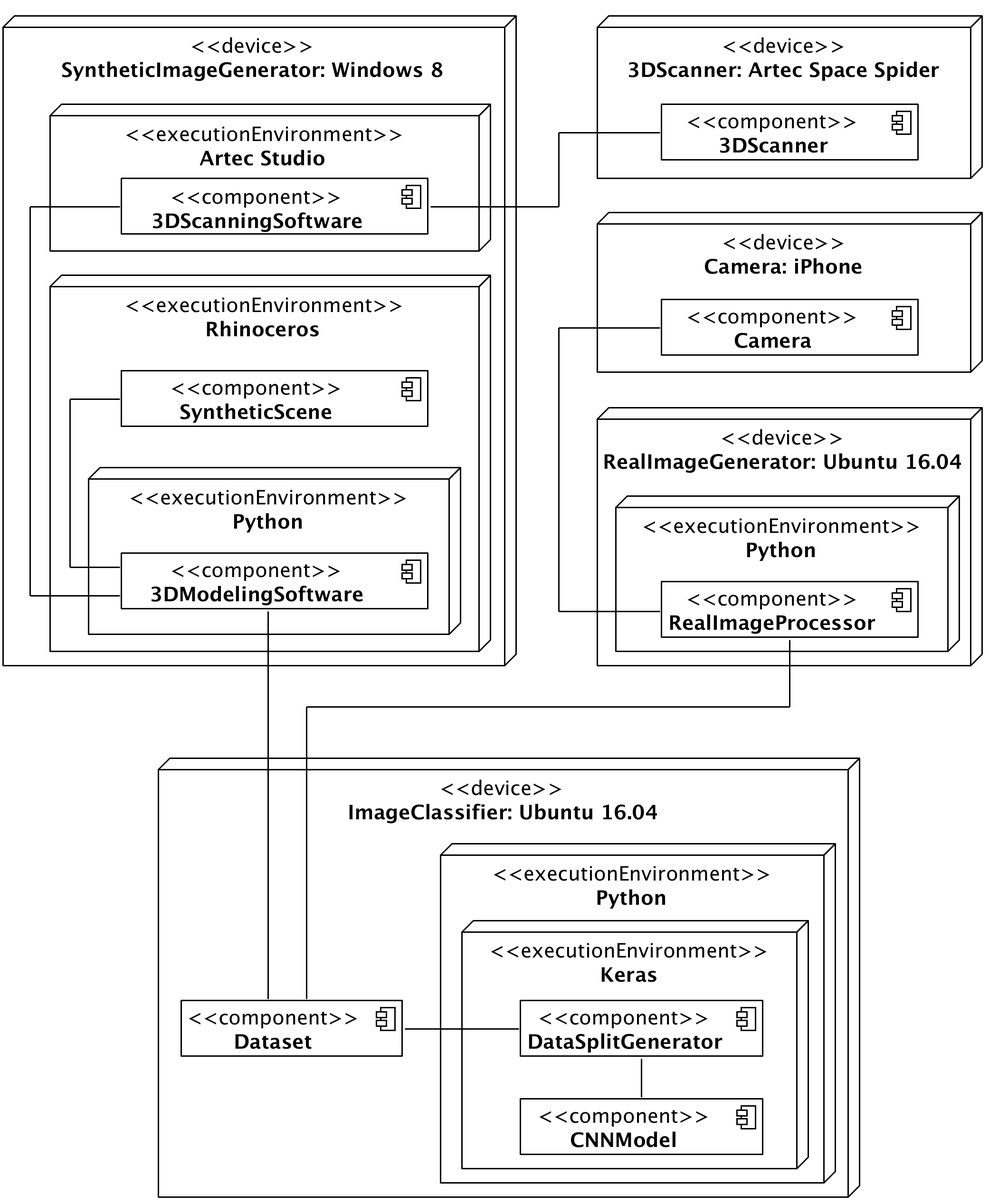
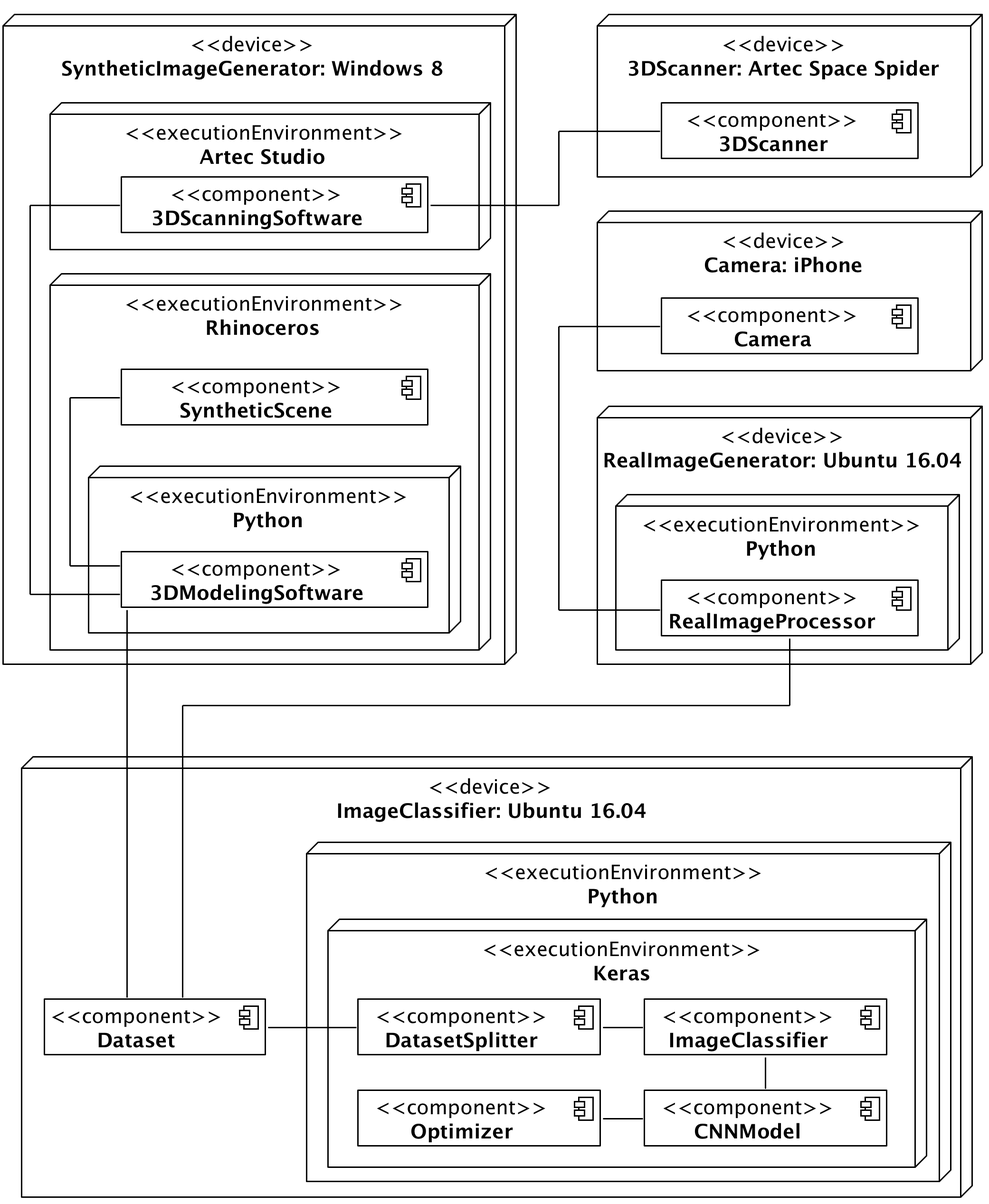
adds feedback

diff --git a/chapters/6-ObjectDesign.tex b/chapters/6-ObjectDesign.tex
@@ -3,7 +3,8 @@ In chapter \ref{ch:analysis}, we identified the objects in our system by creatin
 
 During hardware/software mapping, we have identified off-the-shelf components that we used throughout our system. Namely Keras, Rhinoceros Artec Studio and Artec Space Spider. In this chapter, we close the gap between the application objects and the off-the-shelf components by identifying additional solution objects and refining existing objects \cite{bruegge2004object}.
 
-Section \ref{sec:artec} presents the Artec Space Spider 3D scanner and the Artec Studio 3D scanning software. It also describes how they are used to create 3D models. In section \ref{sec:rhino} we present the 3D modeling software Rhinoceros and how it is used to create synthetic images. Finally, in section \ref{sec:keras}, we introduce Keras and Tensorflow, and we describe how they are used to create an image classifier.
+Section \ref{sec:artec} presents the Artec Space Spider 3D scanner and the Artec Studio 3D scanning software. It also describes how they are used to create 3D models. In section \ref{sec:rhino} we present the 3D modeling software Rhinoceros and how it is used to create synthetic images. Section \ref{sec:pillow} describes Pillow the python imaging library, and how it is used to process real images. In section \ref{sec:keras}, we introduce Keras and Tensorflow, and we describe how they are used to create an image classifier. Section \ref{sec:vgg_algorithm} describes the VGG convolutional neural network algorithms used to implement the CNNModel. Finally, Section \ref{sec:adam_algorithm} presents the Adam optimization algorithm.
+
 
 \section{Artec Space Spider and Artec Studio}\label{sec:artec}
 Artec Space Spider\footnote{https://www.artec3d.com/portable-3d-scanners/artec-spider} is a high-resolution 3D scanner based on blue light technology. It is built for capturing small objects or intricate details of large industrial objects in high resolution, with steadfast accuracy and precise color.
@@ -12,6 +13,7 @@ Artec Studio\footnote{https://www.artec3d.com/3d-software/artec-studio} is a 3D 
 
 \subsection{Usage}
 We use the Artec Space Spider 3D scanner to scan our small part from multiple angles. The different scans are then sent to Artec Studio for processing. Artec Studio provides a functionality that detects features in multiple scans and automatically combines the scans to form a 3D model. Moreover, Artec Studio automatically removes outlier points in the scans and. We also used Artec Studio to identify the horizontal plane where the small part was lying during the scan. The plane is then removed from the output 3D model. After the scans have been combined to construct a 3D model, Artec Studio automatically fills the holes in the object where there are missing scans.
+
 
 \section{Rhinoceros}\label{sec:rhino}
 Rhinoceros\footnote{https://www.rhino3d.com} (Rhino for short) is a 3D modeling software. Rhino can create, edit, analyze, document, render, animate, and translate curves, surfaces, solids, point clouds, and polygon meshes.
@@ -23,6 +25,11 @@ We use Rhino to create our synthetic scene. We set the background and the lighti
 
 Furthermore, we use RhinoSyntaxScript over python to create our synthetic images. After setting up the synthetic scene in Rhino, we write a python script that executes random transformations over our 3D model. Next, we use a RhinoSyntaxScript function that renders and saves a 2D image of the scene. In the python script, we specify the desired number of output images. Rhino repeats the transformation and rendering process accordingly.
 
+
+\section{Pillow}\label{sec:pillow}
+Pillow is a python imaging library built on top of PIL (Python Imaging Library). Pillow is used for image manipulation in python. The \textit{Image} module provided by Pillow has a function to open an existing image, resize it and save the new resized image. We use the Image module to implement our RealImageProcessor.
+
+
 \section{Keras and Tensorflow}\label{sec:keras}
 Keras is a high-level neural networks API, written in Python and capable of running on top different backends such as Tensorflow, CNTK or Theano \cite{chollet2015keras}. Keras focuses on being a user friendly API. It minimizes the number of actions required to develop common neural networks. Furthermore, Keras is designed modularly. Neural layers, optimizers, cost functions and regularization schemes are shipped as standalone components that can be easily used to create new models.
 
@@ -32,3 +39,32 @@ Our system runs Keras over Tensorflow. Tensorflow is an open source software lib
 Keras provides an out-of-the-box implementation of different CNN models, optimizers and cost functions. We took advantage of Keras's modular components to build and fine tune our CNN models and their respective optimizers with ease.
 
 Furthermore, Keras provides an image loader, called \textit{ImageDataGenerator}. ImageDataGenerator feeds the training, validation and testing data to the CNN models from a folder directory. Consequently, we built our DatasetSplitter using Keras's image loader.
+
+
+\section{VGG CNN Algorithm}\label{sec:vgg_algorithm}
+VGG is a convolutional neural network model created in 2014 by Karen Simonyan and Andrew Zisserman of the University of Oxford \cite{simonyan2014very}. VGG was introduced in the ILSVRC 2014 competition, where the team came second on the image classification benchmark with a 7.3\% error rate.
+
+As shown in figure \ref{fig:VGG_architectures}, the VGG CNN algorithm has different configurations. For example configuration D has 16 layers while E has 19 layers. The convolution layers used in the VGG network use a 3x3 filter with a stride and a pad of 1, while the maxpooling layers use a 2x2 filter with a stride of 2.
+
+Figure \ref{fig:VGG_architectures} shows the different VGG architecture configurations presented by Simonyan and Zisserman \cite{simonyan2014very}. We use configurations D and E to implement our CNNModel. We refer to them as \textbf{VGG16} and \textbf{VGG19} respectively.
+
+\begin{figure}[H]
+\centering
+  \includegraphics[width=\textwidth]{VGG_architectures}
+\caption{Different VGG architectures. We use configurations D and E.}
+\label{fig:VGG_architectures}
+\end{figure}
+
+
+\section{Adam Optimization Algorithm}\label{sec:adam_algorithm}
+Adam \cite{kingma2014adam} is a gradient descent optimization algorithm. It is used during the training phase of a network to update the model weights. Adam differs than the classical stochastic gradient descent (SGD) optimizer. While SGD maintains a constant learning rate for all weight updates, Adam calculates the exponential moving average of the gradient and the squared gradient. The adam optimizer updates the weight of a network that uses the loss function $L$ as follows:
+\[g_{t}=\dfrac{\partial L}{\partial w_{t-1}}\]
+\[m_{t}=\beta_{1}\cdot m_{t-1}+(1-\beta_{1}\cdot g_{t})\]
+\[s_{t}=\beta_{2}\cdot s_{t-1}+(1-\beta_{2}\cdot g_{t}^2)\]
+\[\hat{m_{t}}=\dfrac{m_{t}}{1 - \beta_{1}^t}\]
+\[\hat{s_{t}}=\dfrac{s_{t}}{1 - \beta_{2}^t}\]
+\[w_{t}=w_{t-1}-\alpha\dfrac{\hat{m_{t}}}{\sqrt{\hat{s_{t}}}+\epsilon}\]
+
+where $\alpha$ is the learning rate, $\beta_1$ and $\beta_2$ are decay rates for the moving average of the gradient and the square gradient respectively, $t$ is the timestep and $\epsilon$ is a small constant (usually $10^{-8}$) used to avoid division by zero.
+
+The Adam optimization algorithm is more sophisticated than the classical stochastic gradient descent. However, we use both algorithms to implement the Optimizer class, which is in turn used to update the weights of the CNNModel during the training phase.

diff --git a/chapters/5-SystemDesign.tex b/chapters/5-SystemDesign.tex
@@ -24,16 +24,16 @@ In the previous chapter we have defined our non-functional requirements. In this
 
 \section{Subsystem Decomposition}\label{sec:subsystem_decomposition}
 
-Figure \ref{fig:SSD} depicts our system's subsystem decomposition. Our system is divided into 3 subsytems. \textbf{SyntheticImageSubsystem} is responsible for providing our system with synthetic images. It consists of 4 main components: \textbf{3DScanner}, \textbf{3DScanningSoftware}, \textbf{3DScanningSoftware}, \textbf{SyntheticScene} and \textbf{3DModelingSoftware}. The 3DScanner scans small parts and ouputs raw 3D model, which are processes by the 3DModelingSoftware to produce a 3D model. The SyntheticScene generates an artificial environment. The 3DModelingSoftware places the 3D models in the environment created by SyntheticScene, and renders synthetic images of the 3D models.
+Figure \ref{fig:SSD} depicts our system's subsystem decomposition. Our system is divided into 3 subsytems. \textbf{SyntheticImageSubsystem} is responsible for providing our system with synthetic images. It consists of 4 main components: \textbf{3DScanner}, \textbf{3DScanningSoftware}, \textbf{3DScanningSoftware}, \textbf{SyntheticScene} and \textbf{3DModelingSoftware}. The 3DScanner scans \textbf{SmallParts} and ouputs raw 3D model, which are processes by the 3DModelingSoftware to create a \textbf{3DModel}. The SyntheticScene generates an artificial environment. The 3DModelingSoftware places the 3D models in the environment created by SyntheticScene, and renders \textbf{SyntheticImages} of the 3D models.
 
-On the other hand, \textbf{RealImageSubsystem} is responsible for providing our system with real images. The \textbf{Camera} is used to take real images of the small parts. Next, the \textbf{RealImageProcessor} resizes the raw images to provide our system with real images that can be used out of the box.
+On the other hand, \textbf{RealImageSubsystem} is responsible for providing our system with real images. The \textbf{Camera} is used to take real images of the SmallParts. Next, the \textbf{RealImageProcessor} resizes the raw images to provide our system with \textbf{RealImages} that can be used out of the box.
 
-The synthetic images created by the SyntheticImageSubsystem and the real images created by the RealImageSubsystem are both sent to the \textbf{ImageClassifierSubsystem}. The ImageClassifierSubsystem in turn combines both image sets to create a \textbf{Dataset}. The images are then fed to the \textbf{DatasetSplitter}, which is in turn responsible for splitting the data into a training set, a validation set and a testing set. The \textbf{CNNModel} utilizes the training and validation sets during the training phase. The testing set is then used to determine the accuracy of the trained CNNModel.
+The synthetic images created by the SyntheticImageSubsystem and the real images created by the RealImageSubsystem are both sent to the \textbf{ImageClassifierSubsystem}. The ImageClassifierSubsystem in turn combines both image sets to create a \textbf{Dataset}. The images are then fed to the \textbf{DatasetSplitter}, which is in turn responsible for splitting the data into a training set, a validation set and a testing set. The \textbf{ImageClassiefier} uses the training and validation sets to train a \textbf{CNNModel}. The CNNModel uses an \textbf{Optimizer} to adjust the model weights during the training phase. The testing set is then used to evaluate the accuracy of the trained CNNModel.
 
 \begin{figure}[H]
 \centering
   \includegraphics[width=\textwidth]{SSD}
-\caption{Subsystem decomposition showing the SyntheticImageSubsystem, the RealImageSubsystem, the ImageClassifierSubsystem and the relationships between them.}
+\caption{Subsystem decomposition showing the SyntheticImageSubsystem, the RealImageSubsystem, the ImageClassifierSubsystem and the services that they provide and consume.}
 \label{fig:SSD}
 \end{figure}
 
@@ -44,7 +44,7 @@ This section describes how the subsystems are mapped onto existing hardware and 
 
 The \textbf{Camera} is used to capture raw images of the small parts. We use the Camera application on an iPhone 6. The \textbf{RealImageGenerator} runs a Python environment. We use the Python commands to resize the the raw images of the small parts captured by the camera. The resized real images are then ready to be fed to the image classifier.
 
-The Dataset is stored in the file system of the \textbf{ImageClassifier} device. We use the device's Python environment to run the Datasplitter and the CNNModel. Furthermore, we use \textbf{Keras} \cite{chollet2015keras}, a neural networks API that provides out-of-the-box CNN implementations. The ImageClassifier deviceis equipped with a graphics processing unit (GPU). The GPU is used for parallel processing of the Convolutional Neural Network training algorithm. This enhancement significantly slashes down the time needed to train a CNN.
+The Dataset is stored in the file system of the \textbf{ImageClassifier} device. We use the device's Python environment to run the Datasplitter, the ImageClassifier, the CNNModel and the Optimizer. Furthermore, we use \textbf{Keras} \cite{chollet2015keras}, a neural networks API that provides out-of-the-box CNN implementations. The ImageClassifier deviceis equipped with a graphics processing unit (GPU). The GPU is used for parallel processing of the Convolutional Neural Network training algorithm. This enhancement significantly slashes down the time needed to train a CNN.
 
 \begin{figure}[h]
 \centering
@@ -55,11 +55,11 @@ The Dataset is stored in the file system of the \textbf{ImageClassifier} device.
 
 \section{Persistent Data Management}\label{sec:persistent_data_management}
 
-The implementation of the ImageClassifier requires the split dataset to be organized in a certain way. The file structure of the dataset is shown in figure \ref{fig:FS}. The root folder contains one folder per small part. Each folder is named after its respective small part's label. This folder, in turn, contains 3 folders: one for training images, one for validation and one for testing. Lastly, each training, validation and testing folder contains a set of images that belong to a specific small part.
+The implementation of the ImageClassifier requires the split dataset to be organized in a certain way. The file structure of the dataset is shown in figure \ref{fig:FS}. The root folder contains 3 folders: one for training images, one for validation and one for testing. Each folder, in turn, contains one folder per class, and each of these folders are named after their respective class's label. Lastly, each class folder contains a set its own images.
 
 \begin{figure}[h]
 \centering
   \includegraphics[width=0.8\textwidth]{FS}
-\caption{Dataset file structure model displaying how the split dataset is organized before being fed as input to the image classifier. Each subfolder in the Dataset root directory is named after a small part label.}
+\caption{Dataset file structure model displaying how the split dataset is organized before being fed as input to the image classifier. Each subfolder in the training/validation/testing directory is named after a small part label.}
 \label{fig:FS}
 \end{figure}

diff --git a/chapters/7-Evaluation.tex b/chapters/7-Evaluation.tex
@@ -86,7 +86,7 @@ $\boldsymbol{R_{0}S_{100}}$ & 600 & 0 & 600 & 100 & 150 \\ \hline
 $\boldsymbol{R_{2.5}S_{97.5}}$ & 585 & 15 & 600 & 100 & 135 \\ \hline
 $\boldsymbol{R_{5}S_{95}}$ & 570 & 30 & 600 & 100 & 120 \\ \hline
 $\boldsymbol{R_{10}S_{90}}$ & 540 & 60 & 600 & 100 & 90 \\ \hline
-$\boldsymbol{R_{100}S_{0}}$ & 0 & 150 & 150 & 50 & 50 \\ \hline
+$\boldsymbol{R_{100}S_{0}}$ & 0 & 600 & 600 & 100 & 100 \\ \hline
 \end{tabular}
 \caption{Different dataset splits that we use in our experiment. Each column details the number of images per class for the specified data split.}
 \label{tab:DS}
@@ -114,7 +114,7 @@ Tables \ref{tab:vgg16-results} and \ref{tab:vgg19-results} provide the resulting
 
 \section{Findings}\label{sec:findings}
 
-In our experiments, synthetic data has been found to enhance the classification accuracy of both the VGG16 and the VGG19 models. We note that using the dataset containing a 100\% real images in the training set, $\boldsymbol{R_{100}S_{0}}$, the VGG16 network reached a classification accuracy of 94.333\%, while using the $\boldsymbol{R_{10}S_{90}}$ dataset resulted in an accuracy of 97.037\%. Moreover, the VGG19 network achieved an accuracy of 92.333\% using the $\boldsymbol{R_{100}S_{0}}$ dataset, compared to an accuracy of 97.222\% as a result of using the $\boldsymbol{R_{5}S_{95}}$ dataset.
+In our experiments, we find that purely synthetic training sets generate inferior results compared to purely real training sets. A VGG16 model trained on the $\boldsymbol{R_{0}S_{100}}$ dataset has a classification accuracy of 83.556\%, a whole 16.444\% less that a VGG16 model trained on the $\boldsymbol{R_{100}S_{0}}$ dataset. However, A VGG16 trained on a training set with 10\% real data produces comparable results to a training set with purely real data. We note that while using $\boldsymbol{R_{100}S_{0}}$ dataset, the VGG16 network reached an accuracy of 100\%, while using the $\boldsymbol{R_{10}S_{90}}$ dataset resulted in an accuracy of 97.037\%. Moreover, the VGG19 network achieved an accuracy of 99.333\% using the $\boldsymbol{R_{100}S_{0}}$ dataset, compared to an accuracy of 97.222\% as a result of using the $\boldsymbol{R_{5}S_{95}}$ dataset.
 
 Furthermore, we notice that the small parts with the highest class-wise accuracy are \textit{Flat Head} and \textit{Longhex Large}. Compared to their counterparts, those two small parts have a unique aesthetic. Hex Large and Hex small look similar, and the same goes for Mushroom Large and Mushroom Small.
 
@@ -127,7 +127,7 @@ $\boldsymbol{R_{0}S_{100}}$ & 99.333 & 48.000 & 98.667 & 96.667 & 80.667 & 78.00
 $\boldsymbol{R_{2.5}S_{97.5}}$ & 100.00 & 79.259 & 99.259 & 99.259 & 83.704 & 80.741 & \textbf{90.370} \\ \hline
 $\boldsymbol{R_{5}S_{95}}$ & 100.00 & 95.833 & 100.00 & 97.500 & 90.833 & 75.833 & \textbf{93.333} \\ \hline
 $\boldsymbol{R_{10}S_{90}}$ & 100.00 & 94.444 & 98.889 & 100.00 & 98.889 & 90.000 & \textbf{97.037} \\ \hline
-$\boldsymbol{R_{100}S_{0}}$ & 100.00 & 98.000 & 100.00 & 98.000 & 78.000 & 92.000 & \textbf{94.333} \\ \hline
+$\boldsymbol{R_{100}S_{0}}$ & 100.00 & 100.000 & 100.00 & 100.000 & 100.000 & 100.000 & \textbf{100.000} \\ \hline
 \end{tabular}
 \caption{Class-wise classification accuracy of a VGG16 network trained on different ratios of synthetic data to real data.}
 \label{tab:vgg16-results}
@@ -142,7 +142,7 @@ $\boldsymbol{R_{0}S_{100}}$ & 100.00 & 81.333 & 88.667 & 92.000 & 98.667 & 52.66
 $\boldsymbol{R_{2.5}S_{97.5}}$ & 100.00 & 100.00 & 86.667 & 99.259 & 99.259 & 90.370 & \textbf{95.926} \\ \hline
 $\boldsymbol{R_{5}S_{95}}$ & 100.00 & 100.00 & 96.667 & 98.333 & 100.00 & 88.333 & \textbf{97.222} \\ \hline
 $\boldsymbol{R_{10}S_{90}}$ & 100.00 & 90.000 & 96.667 & 98.889 & 98.889 & 96.667 & \textbf{96.852} \\ \hline
-$\boldsymbol{R_{100}S_{0}}$ & 100.00 & 92.000 & 98.000 & 96.000 & 78.000 & 90.000 & \textbf{92.333} \\ \hline
+$\boldsymbol{R_{100}S_{0}}$ & 100.00 & 100.000 & 100.000 & 100.000 & 99.000 & 97.000 & \textbf{99.333} \\ \hline
 \end{tabular}
 \caption{Class-wise classification accuracy of a VGG19 network trained on different ratios of synthetic data to real data.}
 \label{tab:vgg19-results}

diff --git a/chapters/8-Summary.tex b/chapters/8-Summary.tex
@@ -5,24 +5,7 @@ In this chapter we recap the work that we have done. We summarize the status of 
 
 \section{Status}\label{sec:status}
 
-Table \ref{tab:FRS} displays the functional requirements that we have identified earlier in chapter \ref{ch:analysis}. Furthermore, A description of how these requirements were implemented in the solution domain is provided. If applicable, we analyse why a requirement has not been realized.
-
-\begin{table}[h]
-\centering
-\begin{tabular}{|l|l|}
-\hline
-\textbf{Functional Requirement} & \textbf{Implementation} \\ \hline
-Create 3D Model & \begin{tabular}[c]{@{}l@{}}We are able to create 3D models of\\ our small parts using the 3DScanner\\ device. However the output 3D\\ models were imprecise and could not\\ capture the details of the small parts.\\ We instead downloaded readily\\ available 3D models.\end{tabular} \\ \hline
-\begin{tabular}[c]{@{}l@{}}Generate Synthetic\\ Image Set\end{tabular} & \begin{tabular}[c]{@{}l@{}}Generating the synthetic image set\\ is implemented using ready made\\ 3D models,  the creation of\\ synthetic scenes and rendering 2D\\ synthetic images in Rhinoceros.\end{tabular} \\ \hline
-\begin{tabular}[c]{@{}l@{}}Set 3D Model\\ Transformation Range\end{tabular} & \begin{tabular}[c]{@{}l@{}}The transformation ranges for each\\ 3D model are set in the python script\\ that Rhino executes to generate the\\ synthetic images.\end{tabular} \\ \hline
-\begin{tabular}[c]{@{}l@{}}Generate Real\\ Image Set\end{tabular} & \begin{tabular}[c]{@{}l@{}}A camera is used to take real images\\ of the small parts which are then\\ resized by the RealImageProcessor\\ component in the RealImageGenerator\\ device.\end{tabular} \\ \hline
-Split Input Dataset & \begin{tabular}[c]{@{}l@{}}In the ImageClassifier device, the\\ DataSplitter divides the images in\\ the Dataset component into a training\\ set, a validation set and a testing set.\end{tabular} \\ \hline
-\begin{tabular}[c]{@{}l@{}}Train Classification\\ Model\end{tabular} & \begin{tabular}[c]{@{}l@{}}The CNNModel  is trained and fine\\ tuned using the training and\\ validation sets\end{tabular} \\ \hline
-\begin{tabular}[c]{@{}l@{}}Evaluate\\ Classification Model\end{tabular} & \begin{tabular}[c]{@{}l@{}}We evaluate the classification\\ accuracy of the CNNModel by\\ predicting the labels of the testing set.\end{tabular} \\ \hline
-\end{tabular}
-\caption{The functional requirements that we have defined in the Analysis chapter and how those requirements were implemented in the solution domain.}
-\label{tab:FRS}
-\end{table}
+We look back at the functional requirements that we have defined in chapter \ref{ch:analysis}. We are able to create 3D models of our small parts using the 3DScanner device. However the output 3D models were imprecise and could not capture the details of the small parts. We instead downloaded readily available 3D models. Generating the synthetic image set is implemented using ready made 3D models, the creation of synthetic scenes and rendering 2D synthetic images in Rhinoceros. The transformation ranges for each 3D model are set in the python script that Rhino executes to generate the synthetic images. A camera is used to take real images of the small parts which are then resized by the RealImageProcessor component in the RealImageGenerator device. In the ImageClassifier device, the DatasetSplitter divides the images in the Dataset component into a training set, a validation set and a testing set. The ImageClassifier trains a CNNMosel using the training and validation sets, and evaluates its classification accuracy using the testing set.
 
 
 \section{Conclusion}\label{sec:conclusion}

diff --git a/chapters/4-Analysis.tex b/chapters/4-Analysis.tex
@@ -91,10 +91,10 @@ In order to create synthetic images, we need to create 3D models of our small pa
 
 \newpage
 \subsubsection{Generating Synthetic Images}
-The created 3D models are used to generate a synthetic image set. To increase the understandability of our model, we separate the use case that concerns modeling the 3D model as \textit{Specify3DTransformationRange}, and the use case that deals with the synthetic scene environment as \textit{SetUpSyntheticScene}. Both are included in the use case \textit{GenerateSyntheticImageSet}.
+The created 3D models are used to generate a synthetic image set. To increase the understandability of our model, we separate the use case that concerns modeling the 3D model as \textit{SetTransformationRange}, and the use case that deals with the synthetic scene environment as \textit{SetUpSyntheticScene}. Both are included in the use case \textit{GenerateSyntheticImageSet}.
 
 \begin{usecase}
-  \addtitle{Use Case}{Specify3DTransformationRange}
+  \addtitle{Use Case}{SetTransformationRange}
 
   \addfield{Participating Actors}{DataGenerator}
 
@@ -284,7 +284,7 @@ RealImage and SyntheticImage are both specializations of the \textbf{Image} clas
 \end{figure}
 
 \subsubsection{Image Classification}
-After the dataset has been generated, it is split into a training set, a validation set and a testing set by the \textbf{DatasetSplitter}. The DatasetSplitter sets the size of each set as well as the ratio of synthetic to real images in the training set. The \textbf{ImageClassifier} uses the split dataset to train and evaluate a \textbf{CNNModel}. The CNNModel defines the model weights as well as the hyperparameters: batch size, number of epochs, and, number of frozen layers. CNNModel is an abstraction of 4 different convolutional neural networks: \textbf{InceptionV3} \cite{szegedy2016rethinking}, \textbf{Resnet50} \cite{he2016deep}, \textbf{VGG16} \cite{simonyan2014very} and \textbf{VGG19} \cite{simonyan2014very}. CNNModel uses the \textbf{Optimizer} to adjust the model weights in the training phase. Optimizer is a generalization of 2 concrete optimizers: Stochastic Gradient Descent \textbf{(SGD)} and \textbf{Adam} \cite{kingma2014adam}.
+After the dataset has been generated, it is split into a training set, a validation set and a testing set by the \textbf{DatasetSplitter}. The DatasetSplitter sets the size of each set as well as the ratio of synthetic to real images in the training set. The \textbf{ImageClassifier} uses the split dataset to train and evaluate a \textbf{CNNModel}. The CNNModel defines the model weights as well as the hyperparameters: batch size, number of epochs, and, number of frozen layers. CNNModel uses the \textbf{Optimizer} to adjust the model weights in the training phase.
 
 \begin{figure}[H]
 \centering

diff --git a/chapters/3-RelatedWork.tex b/chapters/3-RelatedWork.tex
@@ -37,4 +37,4 @@ Gerogakis et al. \cite{georgakis2017synthesizing} use a mixture of synthetic ima
 
 Rajpura et al. \cite{rajpura2017object} used 3D models of refrigerators and and products that are placed in refrigerators from Archive3D\footnote{http://archive3d.net/} and ShapeNet \cite{chang2015shapenet} to perform object detection in refrigerator scenes. Synthetic images were generated by rendering 2D images of a 3D synthetic scene were the products are placed inside the refrigerators. Rajpura et al. trains a CNN using a fully real training set, a fully synthetic training set, and a synthetic training set containing 10\% real data. The CNN fully trained with only synthetic images  underperforms against one with real images but the mixed training set boosts the detection performance by 12\% which signifies the importance of transferable cues from synthetic to real.
 
-Sarkar et al. \cite{sarkar2017trained} train a CNN image classifier on synthetic images rendered from 3D models of 5 different objects. The 3D models are created by scanning the real target objects using a 3D scanner. Synthetic images are created by rendering the 3D models on 3 different types of backgrounds: a plain white background, a random indoor background taken from indoor categories of PASCAL dataset \cite{everingham2010pascal}, and a chosen background similar to that of test images. Aditionally, images are rendered with two object texture settings: full texture and no texture. Sarkar et al. find that synthetic images of fully textured objects overlayed on a mixture of white and chosen backgrounds produce the best results.
+Sarkar et al. \cite{sarkar2017trained} train a CNN image classifier on synthetic images rendered from 3D models of 5 different objects. The 3D models are created by scanning the real target objects using a 3D scanner. Synthetic images are created by rendering the 3D models on 3 different types of backgrounds: a plain white background, a random indoor background taken from indoor categories of PASCAL dataset \cite{everingham2010pascal}, and a chosen background similar to that of test images. Aditionally, images are rendered with two object texture settings: full texture and no texture. Sarkar et al. find that synthetic images of fully textured objects overlayed on a mixture of white and chosen backgrounds produce the best results compared to other texture and background settings.

diff --git a/tex/abstract.tex b/tex/abstract.tex
@@ -1,9 +1,11 @@
 \begin{abstract}
 
-Aircraft engines periodically undergo an overhaul process where the engine parts are dismantled and then later reassembled. When the engine components are taken apart, thousends of small parts (screws, nuts, bolts, etc..) are unfastened. To facilitate the step of engine reassembly, the small parts have to be sorted and classified.
+Aircraft engines periodically undergo an overhaul process during which the engine parts are dismantled and then later reassembled. When the engine components are taken apart, thousends of small parts (screws, nuts, bolts, etc..) are unfastened. To facilitate the step of engine reassembly, the small parts have to be sorted and classified.
 
 In this thesis we present a system to automatically classify small parts using convolutional neural networks. To train the neural networks, we use 3D models of the small parts to render synthetic images. The network is trained using a mixture of images of the small parts and synthetic images of their corresponding 3D models. We examine the use of a fully synthetic image set for training, as well as different ratios of real and synthetic images.
 
-Our results indicate that a convolutional neural network trained on a dataset that contains as little as 5\% real images can provide a comparable classification accuracy to networks that have been trained on purely real image sets. This is advantagous in supervised learning problems where an annotated dataset of images is not available for a novel domain.
+Our results indicate that a convolutional neural network trained on a dataset that contains as little as 5\% real images can provide a comparable classification accuracy to networks that have been trained on purely real image sets. This is advantagous in supervised learning problems targeting novel domains, where an annotated dataset of images might not available for training.
+\\\\
+\textbf{Keywords:} image classification, convolutional neural networks, synthetic images, 3D models
 
 \end{abstract}

diff --git a/chapters/1-Introduction.tex b/chapters/1-Introduction.tex
@@ -11,7 +11,7 @@ Aircraft engine overhaul is the process of removing, disassembling, inspecting, 
 
 \subsubsection{Manual Small Part Classification}
 
-Traditionally, the tasks of classifying and sorting small parts are executed manually by a human task force. The dismantled small parts are brought to the workers in a special work station, where the workers have access to manuals, pictures of each small part, magnifiers and measuring intruments. The small parts are engraved with a part number which can be used for identification. However, sometimes the part number is indistinguishable due to erosion, rust or physical damage. In this case, the workers have to look up the small part in the manuals. The measuring instruments are used to compute the small part's distinguishing features as shown in \ref{fig:small_part_structure}. For classifying a small part with a distorted part number, the workers might need up to 30 seconds to measure the different small part features and compare them against the models in the manual for classification.
+Traditionally, the tasks of classifying and sorting small parts are executed manually by a human task force. The dismantled small parts are brought to the workers in a special work station, where the workers have access to manuals, pictures of each small part, magnifiers and measuring intruments. The small parts are engraved with a part number which can be used for identification. However, sometimes the part number is indistinguishable due to erosion, rust or physical damage. In this case, the workers have to look up the small part in the manuals. The measuring instruments are used to compute the small part's distinguishing features as shown in \ref{fig:small_part_structure}. For classifying a small part with a distorted part number, the workers might need seconds to measure the different small part features and compare them against the models in the manual for classification.
 
 \begin{figure}[H]
 \centering

diff --git a/thesis.tex b/thesis.tex
@@ -65,12 +65,12 @@
 \thispagestyle{empty}
 \mbox{}
 
- \chapter*{Acknowledgements}
+\chapter*{Acknowledgements}
 I would first like to express my love and gratitude for my parents, Dr. Hatem Abdelraouf and Dr. Naglaa Hassan, for their unwavering support. Throughout my studies they have been my primary source of strength. The opportunity to study in Germany would have never been realized without their advice and encouragement. Furthermore, I would like to show appreciation for my fiancé Marwah Garib, whos support has been unfailing throughout the whole of my studies.
 
 I would like to thank Prof. Bernd Brügge of the Applied Software Engineering chair at the Technical University of Munich. Prof. Bernd Brügge's comments and feedback were imperative to the quality of this document.
 
-+Last but most certainly not least, I would like to express thankfullness to my advisor, MSc. Sajjad Taheritanjni. The door to Sajjad's office was always open whenever I needed guidance, or had a question about the project, writing this document, or even a non-thesis-related matter.
+Last but most certainly not least, I would like to express thankfullness to my advisor, MSc. Sajjad Taheritanjni. The door to Sajjad's office was always open whenever I needed guidance, or had a question about the project, writing this document, academia in general, or even a non-thesis-related matter.
 
 \pagenumbering{roman}
 
